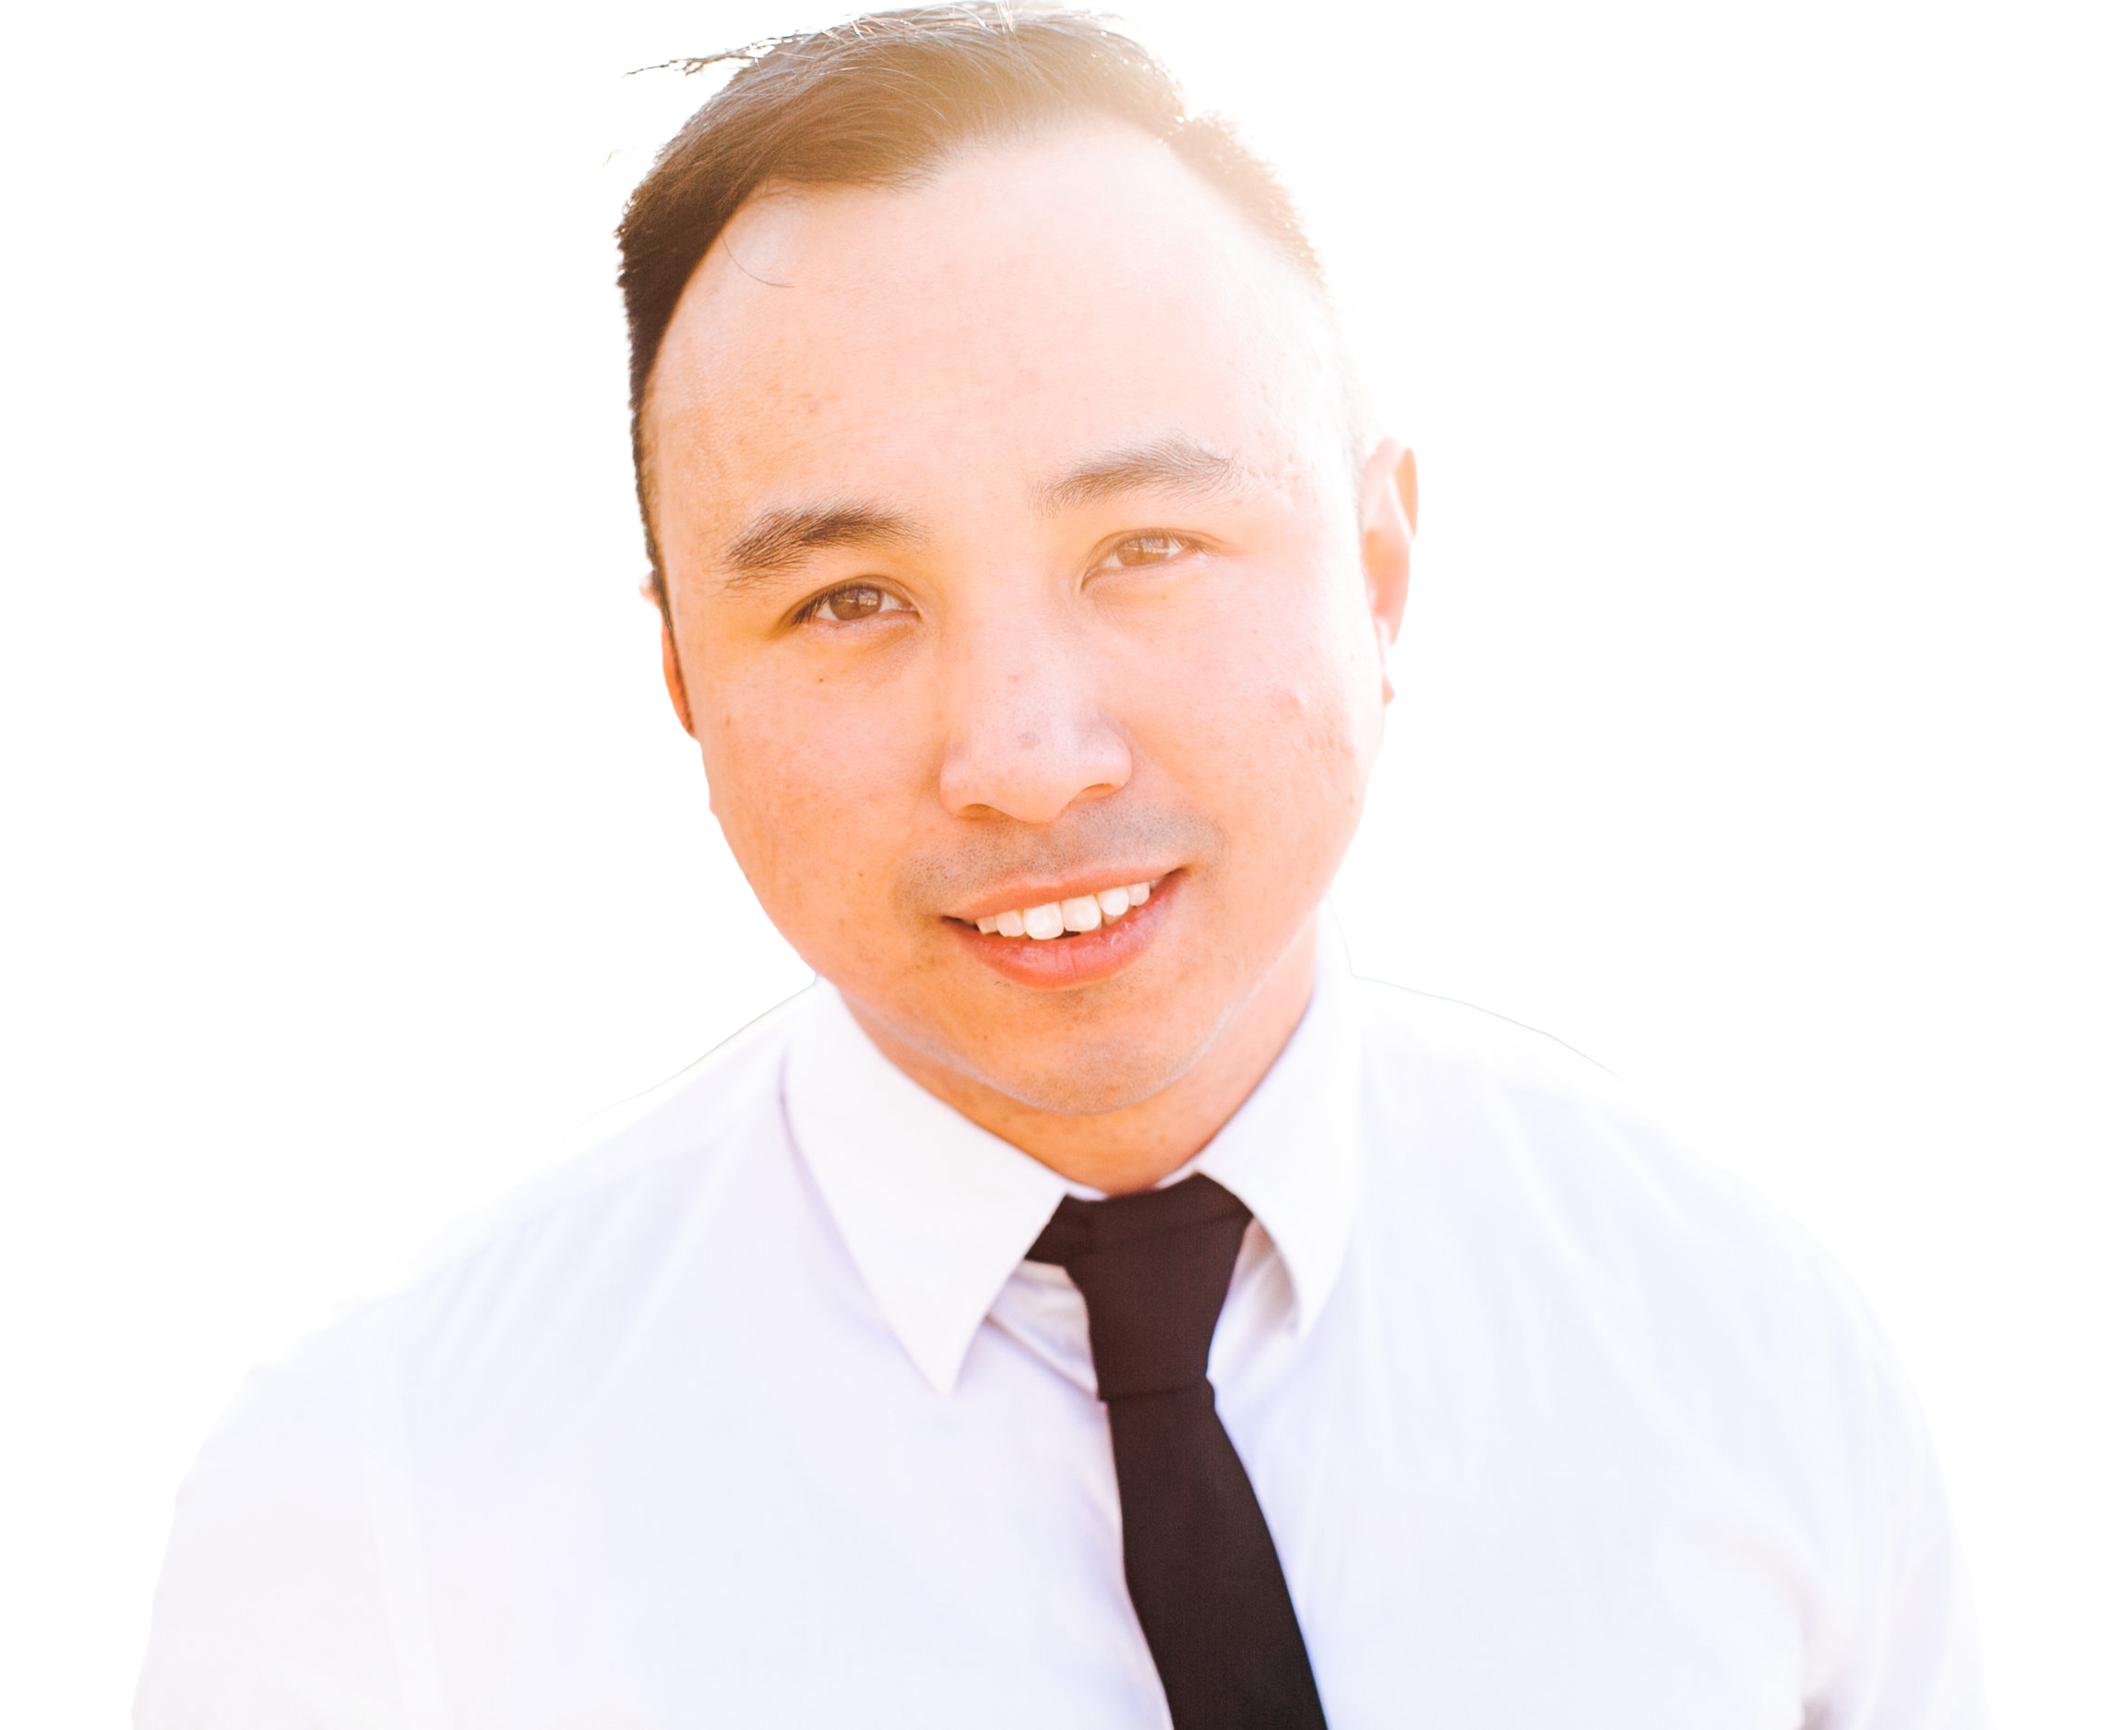
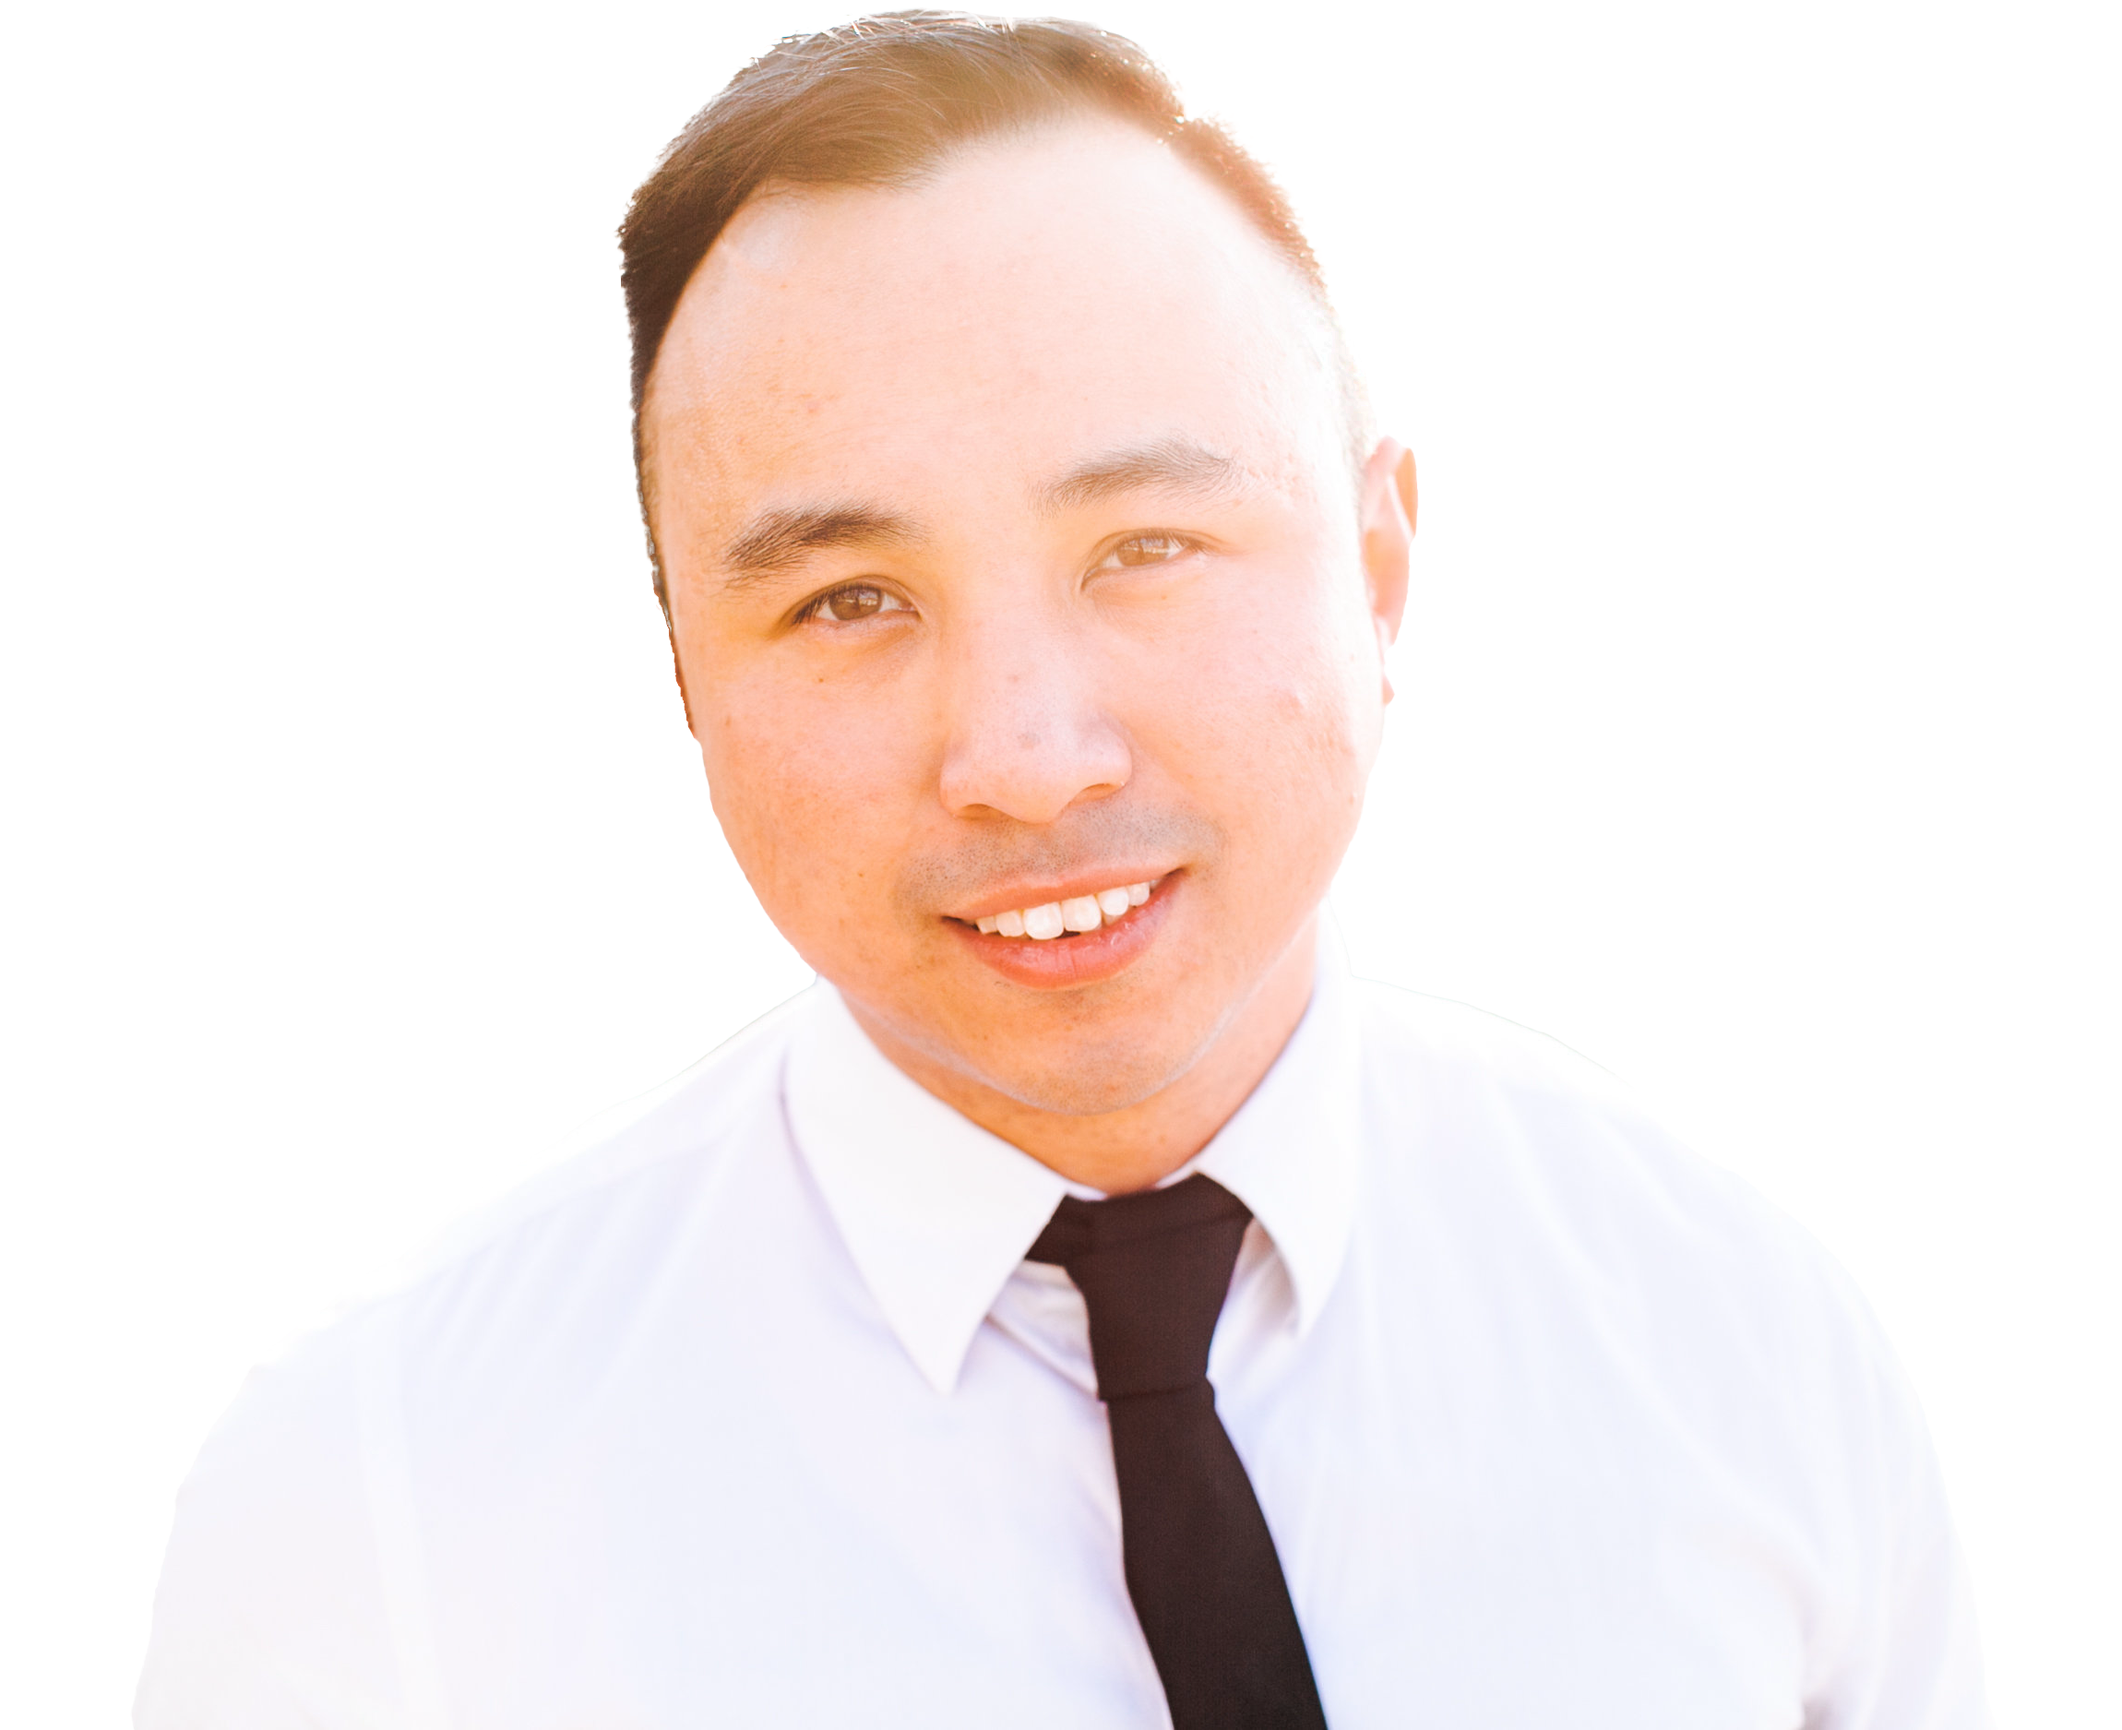
Had to PS JN img and fix index & css

diff --git a/index.html b/index.html
@@ -4,23 +4,20 @@
     <meta charset="UTF-8" />
     <meta name="viewport" content="width=device-width, initial-scale=1.0" />
     <link rel="stylesheet" href="./style.css" />
+    <link
+      rel="stylesheet"
+      href="https://fonts.googleapis.com/css2?family=Material+Symbols+Outlined:opsz,wght,FILL,GRAD@20..48,100..700,0..1,-50..200&icon_names=menu"
+    />
     <link rel="icon" type="image/jpg" href="./images/JN-icon.jpg" />
     <title>JN Personal</title>
-
-    <!--FONT-->
-    <link rel="preconnect" href="https://fonts.googleapis.com" />
-    <link rel="preconnect" href="https://fonts.gstatic.com" crossorigin />
-    <link
-      href="https://fonts.googleapis.com/css2?family=Noto+Sans+Display:ital,wght@0,100..900;1,100..900&display=swap"
-      rel="stylesheet"
-    />
   </head>
   <body>
     <!--HEADER-->
     <header class="header">
       <a href="#" class="logo">Folio</a>
 
-      <img src="./images/menu-icon.png" alt="menu-icon" width="2.5%" />
+      <!-- <img src="./images/menu-icon.png" id="menu-icon" alt="menu-icon" width="2.5%" /> -->
+      <span class="material-symbols-outlined"> menu </span>
 
       <nav class="navbar">
         <a href="#home" class="active">Home</a>
@@ -32,10 +29,10 @@
 
     <!--HOME SECTION-->
     <section class="home" id="home">
-      <div class="home-confident">
+      <div class="home-content">
         <h3>Hi,</h3>
         <h1>JN</h1>
-        <h3>And I'm a Fullstack Developer</h3>
+        <h3>And I'm a <span>Fullstack Developer</span></h3>
         <p>
           Bacon ipsum dolor amet ullamco fugiat jowl sint, frankfurter short
           loin dolore velit. Non ex lorem, consequat in ad chicken drumstick. In
@@ -58,7 +55,7 @@
         <a href="#" class="btn">Resume</a>
       </div>
       <div class="home-img">
-        <img src="./images/JN.png" alt="JN" width="10%" />
+        <img src="./images/JN.png" alt="JN" width="100%" />
       </div>
     </section>
 

diff --git a/style.css b/style.css
@@ -8,7 +8,7 @@
     border: none;
     outline: none;
     scroll-behavior: smooth;
-    font-family: "Noto Sans Display", serif;
+    font-family: "Nunito", sans-serif;
 }
 
 :root {
@@ -59,4 +59,57 @@ section {
 .logo {
     font-size: 2.5rem;
     color: var(--text-color);
+    font-weight: 700;
+    cursor: default;
+}
+
+.navbar a {
+    font-size: 1.5rem;
+    color: var(--text-color);
+    margin-left: 4rem;
+    font-weight: 700;
+}
+
+.navbar a:hover,
+.navbar a:active {
+    color: var(--text-color);
+}
+
+span.material-symbols-outlined {
+    font-size: 36px;
+    font-variation-settings: 'OPSZ'40;
+    color: var(--text-color);
+    display: none;
+}
+
+.home {
+    display: flex;
+    justify-content: center;
+    align-items: center;
+}
+
+.home-content h3 {
+    font-size: 3.2rem;
+    font-weight: 700;
+}
+
+.home-content h3:nth-of-type(2) {
+    margin-bottom: 2rem;
+}
+
+span {
+    color: var(--main-color);
+}
+
+.home-img {
+    background-color: var(--main-color);
+    border-radius: 7rem;
+    padding: 0px 30px;
+    display: flex;
+    justify-content: center;
+    align-items: flex-end;
+
+    img {
+        margin-top: -2.5rem;
+    }
 }
